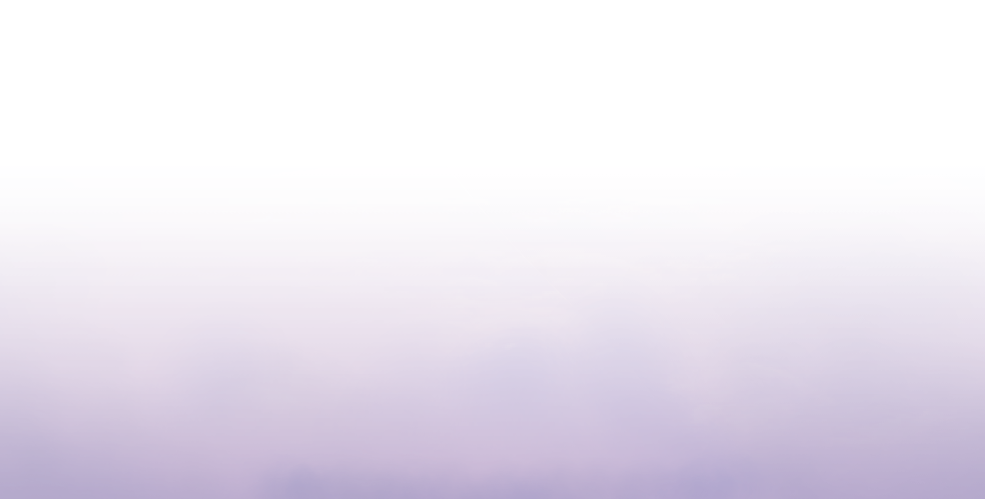
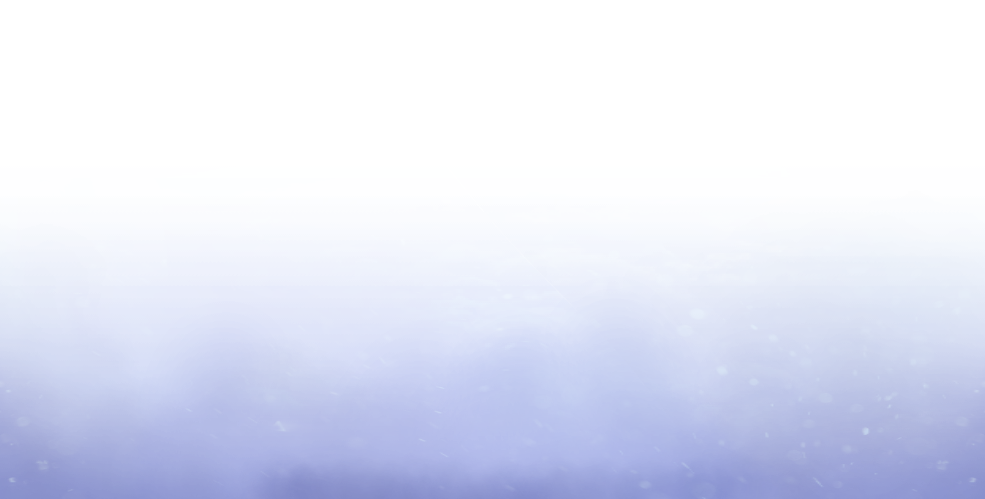
visceral anim update

Changed region(s): [[0.0, 0.7816, 1.0, 1.0]]

diff --git a/index.html b/index.html
@@ -8,6 +8,21 @@
 	<link rel="icon" type="image/png" href="favicon-16x16.png" sizes="16x16" />
 	<link rel="stylesheet" href="https://stackpath.bootstrapcdn.com/bootstrap/4.3.1/css/bootstrap.min.css" integrity="sha384-ggOyR0iXCbMQv3Xipma34MD+dH/1fQ784/j6cY/iJTQUOhcWr7x9JvoRxT2MZw1T" crossorigin="anonymous">
 	<link rel="stylesheet" href="css/binaray.css">
+	<style>
+	@keyframes rotateMask {
+	  0% {clip-path: polygon(50% 1%, 92.3% 25%, 92.3% 75%, 50% 99%, 7.7% 75%, 7.7% 25%);}
+	  5% {clip-path: polygon(25% 6.7%, 75% 6.7%, 100% 50%, 75% 93.3%, 25% 93.3%, 0% 50%);}
+	  50% {clip-path: polygon(25% 6.7%, 75% 6.7%, 100% 50%, 75% 93.3%, 25% 93.3%, 0% 50%);}
+	  55% {clip-path: polygon(50% 0%, 93.3% 25%, 93.3% 75%, 50% 100%, 6.7% 75%, 6.7% 25%);}
+	  100% {clip-path: polygon(50% 0%, 93.3% 25%, 93.3% 75%, 50% 100%, 6.7% 75%, 6.7% 25%);}
+	}
+	#profile-pic{
+		width:150px;
+		height:150px;
+		clip-path: polygon(50% 0%, 93.3% 25%, 93.3% 75%, 50% 100%, 6.7% 75%, 6.7% 25%);
+		animation: rotateMask 4s linear 1s infinite alternate;
+	}
+	</style>
   </head>
   <body>
 	<div class="container">
@@ -27,27 +42,26 @@
 		<div class="row">PROFILE&nbsp|&nbsp<a href="works.html">WORKS</a>&nbsp|&nbsp<a href="gallery.html">GALLERY</a></div>
 		
 		<div class="row"><div class="col-12 title text-center pt-1"><h5>Profile</h5></div></div>
-		<div class="row border pt-3 pb-4">
+		<div class="row border pt-3 pb-4 content">
 			<div class="col-md-4 text-md-right text-center my-1">
-				<img src="resources/site/binaray.png" style="width: 200px;" class="p-2">
+				<img id="profile-pic" src="resources/site/fish.png">
 			</div>
 			<div class="col-md-8 align-self-center text-md-left text-center">
-				・Ray
-				<div class="px-3 pl-md-5">
-				I mainly work as a programmer; swapping to creative roles when needed.<br>
-				When free, I enjoy doing illustrations and creative media research.
-				</div>
+				Ray Cheng<br>
+				Software Engineer | Creative Technologist | Illustrator 
 			</div>
+			
+			
 			
 			<div class="col-12 px-5 py-4">
 				<div class="row justify-content-center">
 					<div class="col-lg-10 border-bottom">
-						・SKILLS:<br>
+						SKILLS:<br>
 					</div>
 				</div>
 				<div class="row justify-content-center mt-1 mb-1">
 					<div class="col-lg-3 text-lg-right text-left">
-						Programming|Markup:
+						Programming Markup:
 					</div>
 					<div class="col-lg-7 text-light">
 						C, C++, C#, Java, PHP, Processing, Python, HTML, CSS, JS, SQL

diff --git a/css/binaray.css b/css/binaray.css
@@ -2,11 +2,30 @@ body {
 	font-family: Edelsans;
 	color: #fff;
     background: #31343d;
-	background-image: url(bg0.png);
+	background-image: url(bg1.png);
 	background-repeat: repeat-x; 
 	background-attachment: fixed;
 	background-position: bottom; 
+	-webkit-animation:loopBgSet 50s linear infinite;
+	animation:loopBgSet 50s linear infinite
 }
+@-webkit-keyframes loopBgSet {
+ 0% {
+  background-position:0 bottom
+ }
+ to {
+  background-position:985px bottom
+ }
+}
+@keyframes loopBgSet {
+ 0% {
+  background-position:0 bottom
+ }
+ to {
+  background-position:985px bottom
+ }
+}
+
 footer{
 	height: 150px;
 }
@@ -44,6 +63,10 @@ a{
 
 .text-light{
 	color: #bebebe!important;
+}
+
+.content{
+	background: #68698e38;
 }
 
 /*sidebar navigation*/

diff --git a/gallery.html b/gallery.html
@@ -40,7 +40,7 @@
 		<div class="row"><a href="index.html">PROFILE</a>&nbsp|&nbsp<a href="works.html">WORKS</a>&nbsp|&nbspGALLERY</div>
 		
 		<div class="row"><div class="col-12 title text-center pt-1"><h5>Gallery</h5></div></div>
-		<div class="row border pt-2 pb-2">
+		<div class="row border pt-2 pb-2 content">
 			<div class="card-columns col-12" id="gallery" data-toggle="modal" data-target="#carouselModal">
 			  <!-- <div class="card"> -->
 				<!-- <img class="card-img" src=".../100px260/" alt="Card image"> -->

diff --git a/works.html b/works.html
@@ -27,7 +27,7 @@
 		<div class="row"><a href="index.html">PROFILE</a>&nbsp|&nbspWORKS&nbsp|&nbsp<a href="gallery.html">GALLERY</a></div>
 		
 		<div class="row"><div class="col-12 title text-center pt-1"><h5>Works</h5></div>
-		<div id="worksContainer" class="col-12 border pb-2">
+		<div id="worksContainer" class="col-12 border pb-2 content">
 			
 			<!--template-->
 			<!-- <div class="row m-2 pt-3 pb-4"> -->
